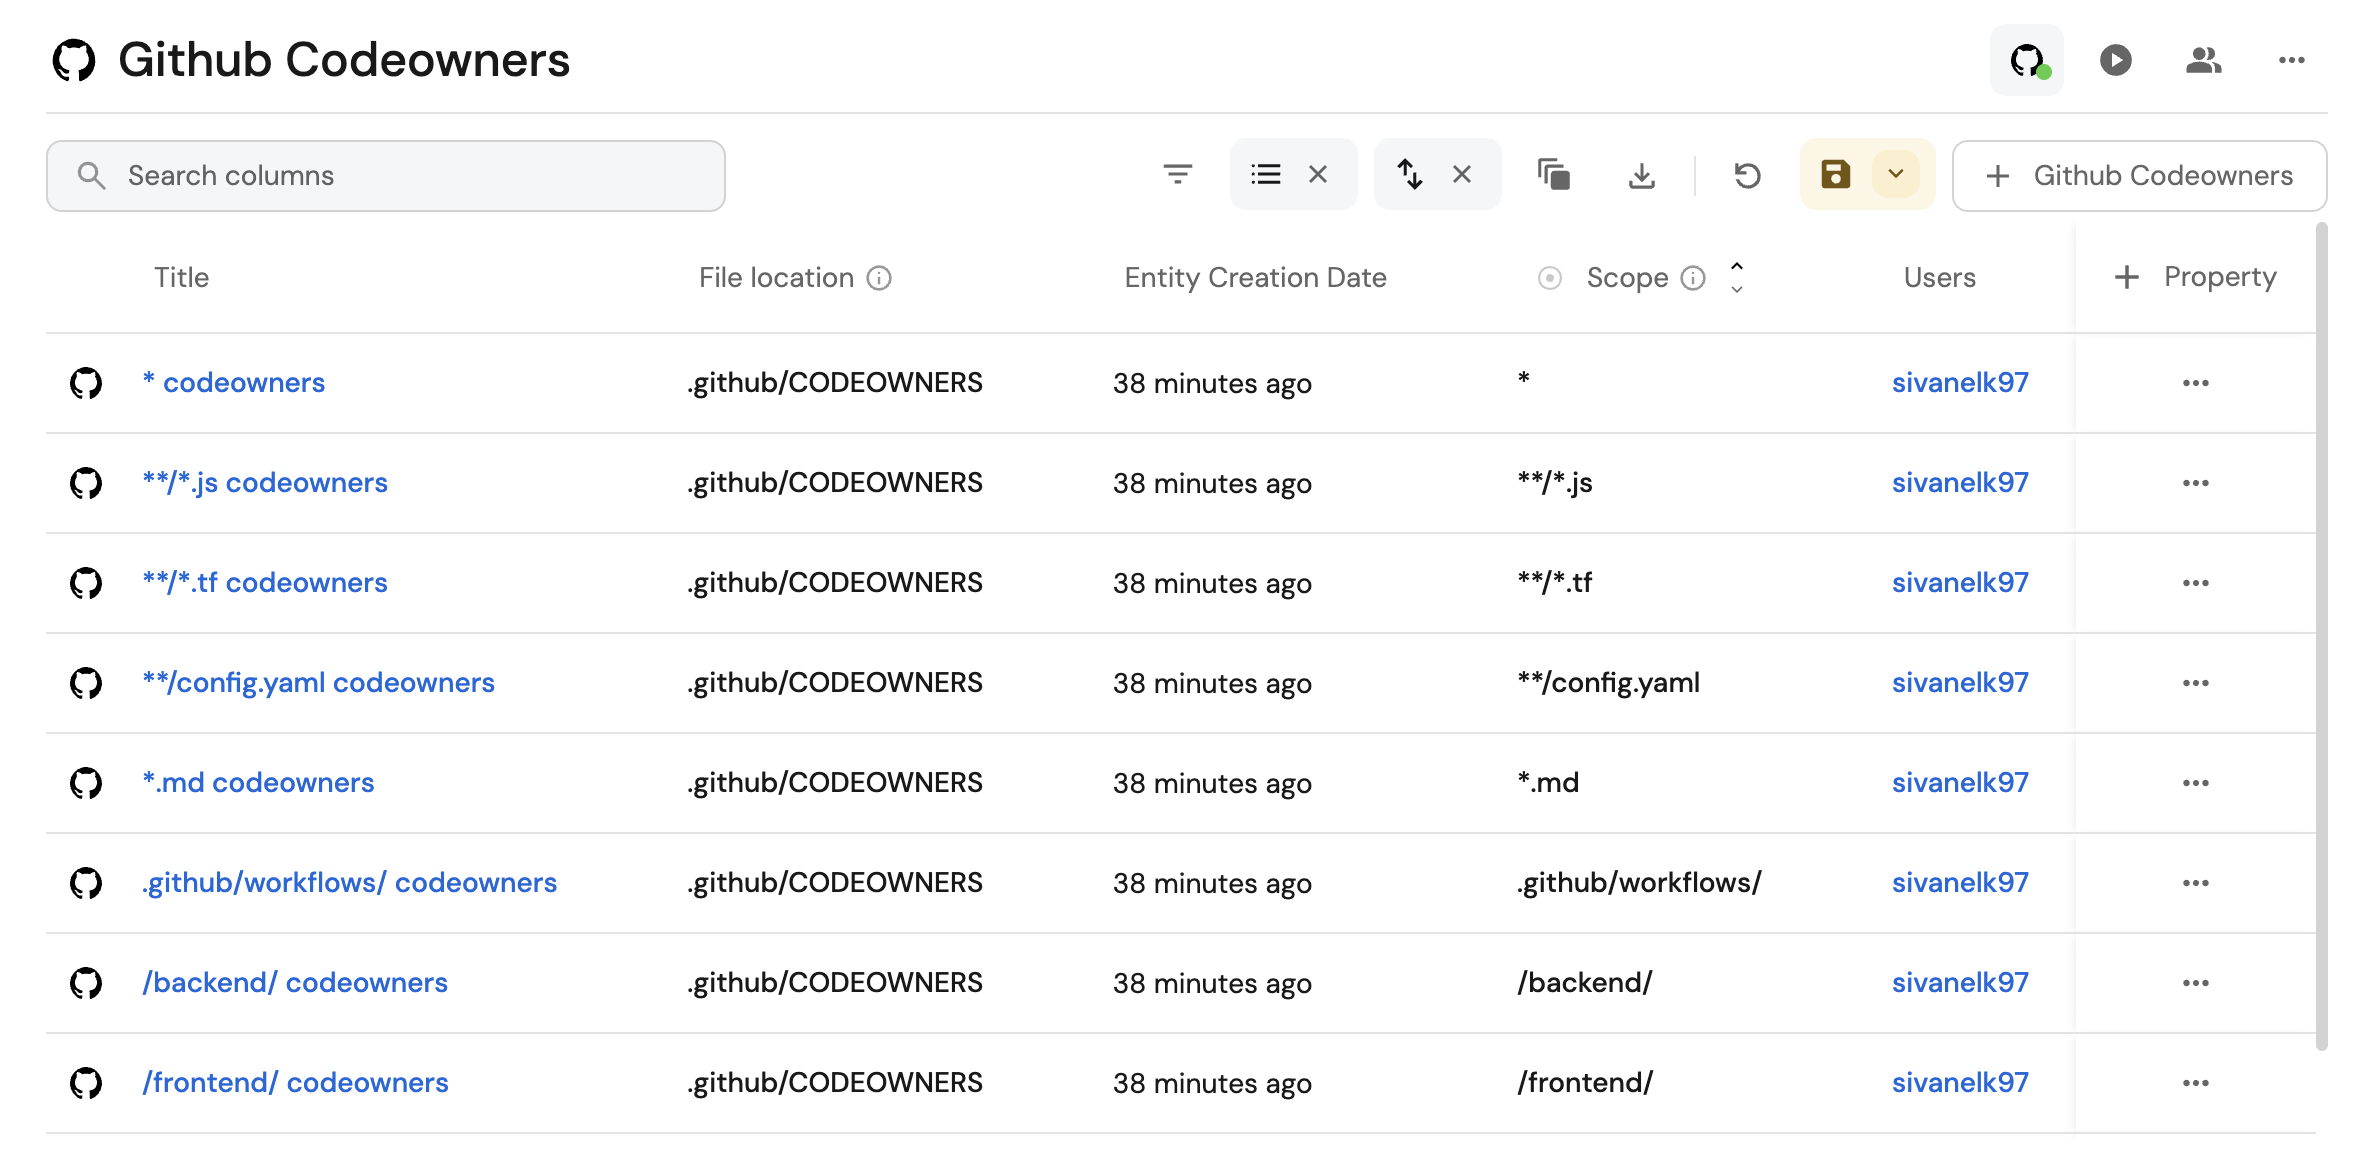
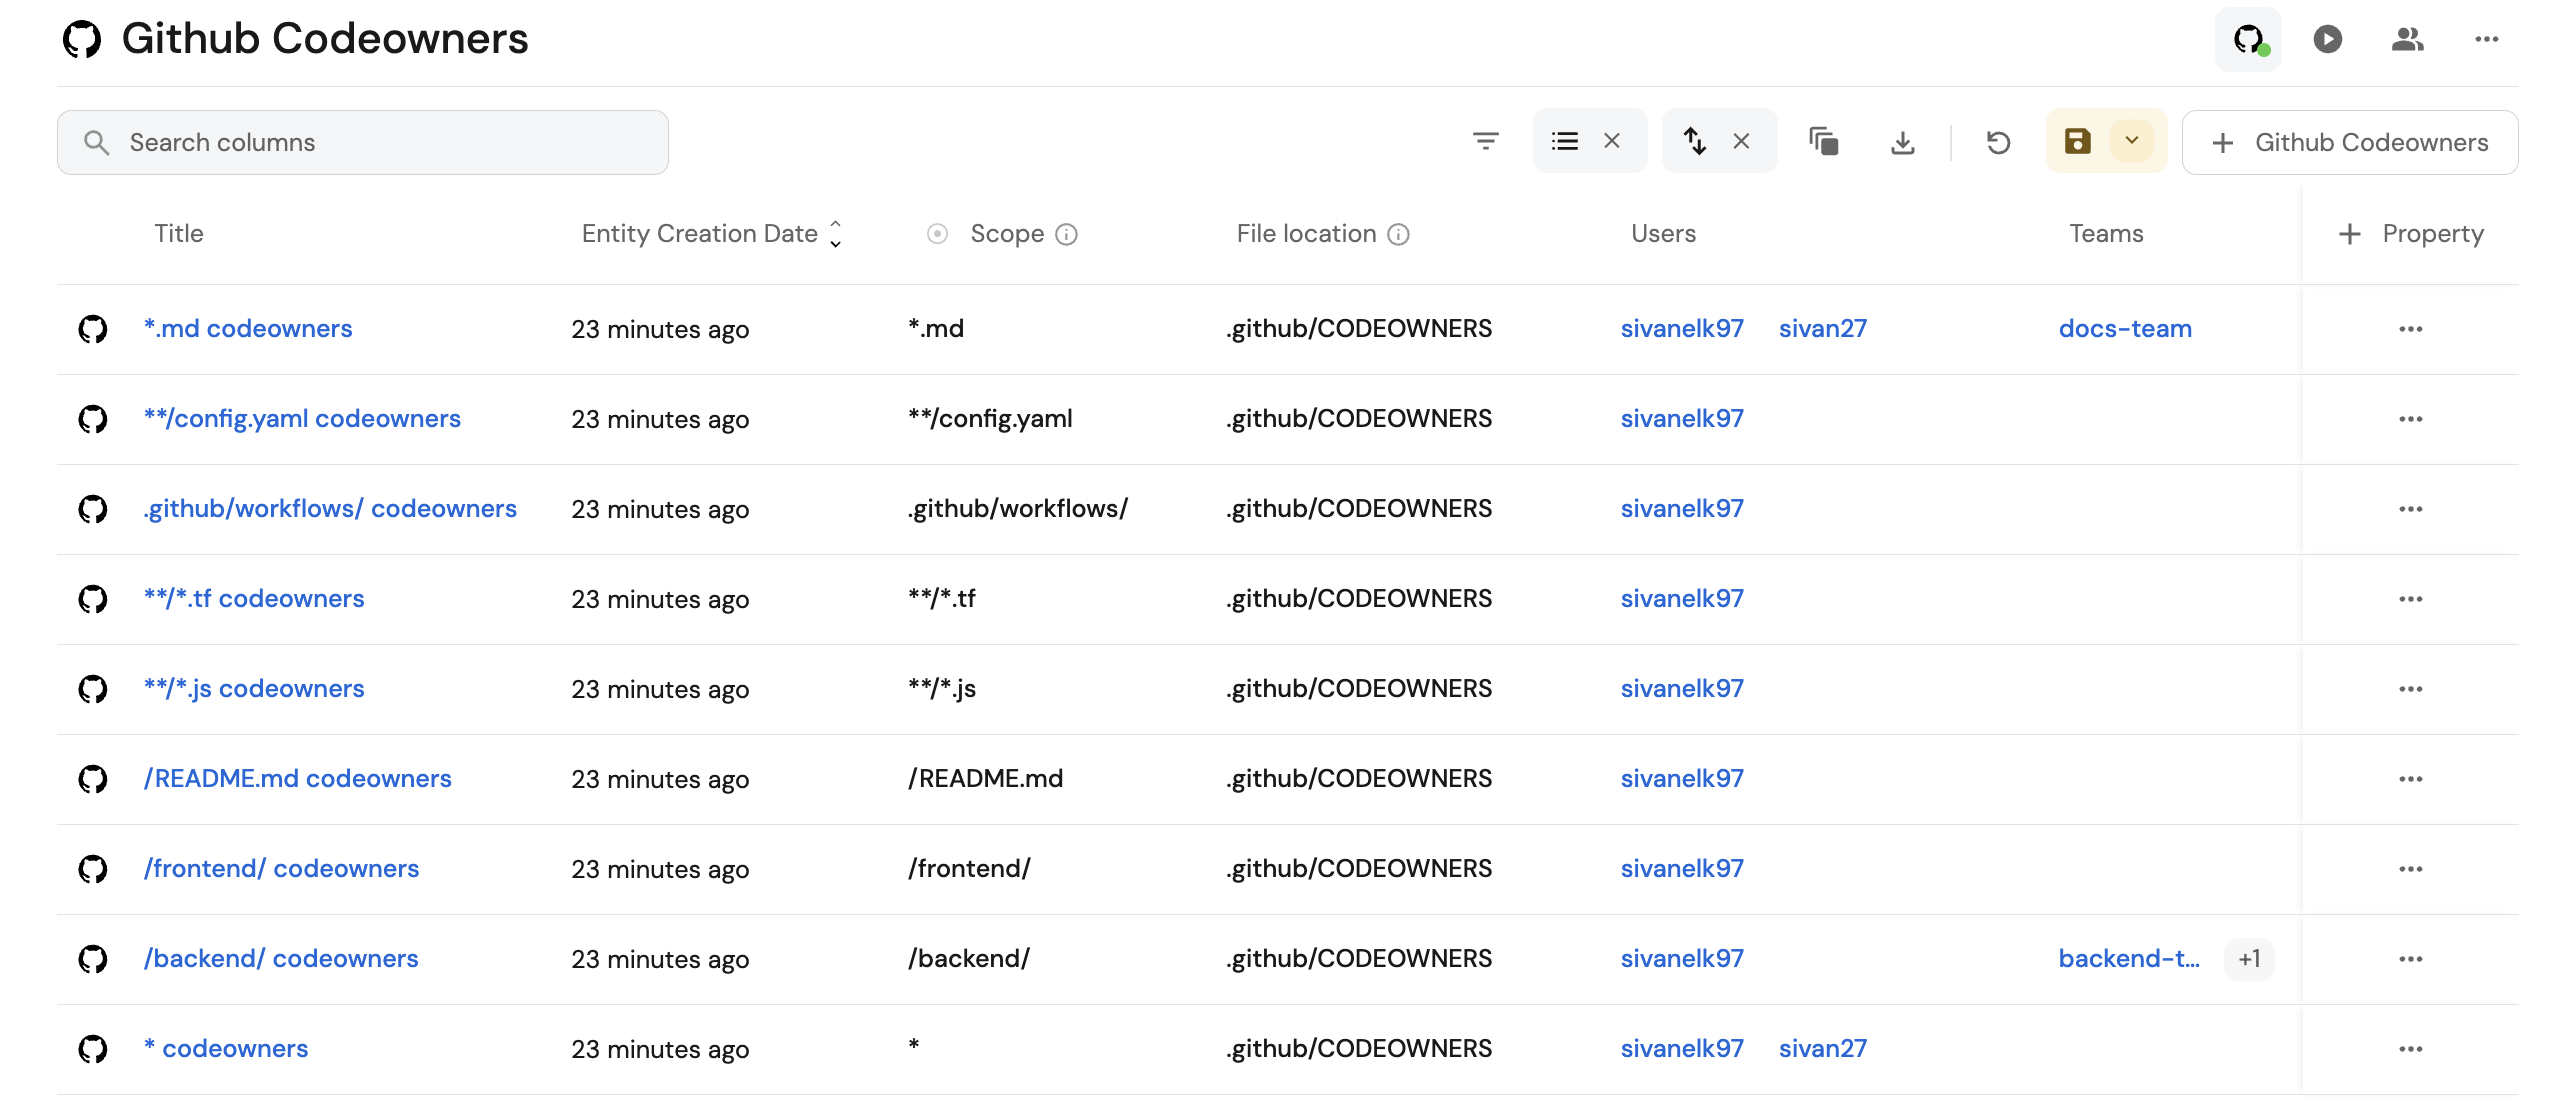
Fix teams mapping and codeowners blueprint

diff --git a/docs/guides/all/connect-github-codeowners-with-service-team-and-user.md b/docs/guides/all/connect-github-codeowners-with-service-team-and-user.md
@@ -22,9 +22,13 @@ Once you install Port's GitHub app, the following blueprints will be created in 
 To add the CODEOWNERS blueprint:
 
 1.  Navigate to your [Port Builder](https://app.getport.io/settings/data-model) page.
+
 2. Click on the `+ Blueprint` button to create a new blueprint.
+
 3. Click on the `Edit JSON` button.
+
 4. Copy the definition below and paste it in the editor.
+
 5. Click `Save` to create the blueprint.
 
 <details>
@@ -62,17 +66,18 @@ To add the CODEOWNERS blueprint:
       "required": false,
       "many": true
     },
-    "service": {
-      "title": "Service",
-      "target": "service",
-      "required": false,
-      "many": false
-    },
     "teams": {
       "title": "Teams",
       "target": "githubTeam",
       "required": false,
       "many": true
+    },
+    "repository": {
+      "title": "Repository",
+      "description": "The repository which the CODEOWNERS file resides in",
+      "target": "githubRepository",
+      "required": true,
+      "many": false
     }
   }
 }
@@ -84,10 +89,15 @@ To add the CODEOWNERS blueprint:
 ## Set up mapping configuration
 
 1. Go to the [data sources](https://app.getport.io/settings/data-sources) page of your portal.
+
 2. Under `Exporters`, click on your desired GitHub organization.
+
 3. A window will open containing the default YAML configuration of your GitHub integration.
+
 4. Here you can modify the configuration to suit your needs, by adding/removing entries.
+
 5. Add the configuration below.
+
 6. When finished, click `Save & Resync` to apply any changes.
 
 <details>
@@ -102,12 +112,8 @@ resources:
         - path: '**/.github/CODEOWNERS'
     port:
       itemsToParse: >-
-        (. as $root
-        | .file.content
-        | split("\n")
-        | map(trim)
-        | map(select((test("^[[:space:]]*#") | not) and (length > 0)))
-        | map(
+        (. as $root | .file.content | split("\n") | map(trim) |
+        map(select((test("^[[:space:]]*#") | not) and (length > 0))) | map(
             (split(" ") | map(select(length > 0))) as $tokens
             | {
                 scope: ($tokens[0]), 
@@ -124,26 +130,31 @@ resources:
                   ),
                 teams: (
                     $tokens[1:]
-                    | map(select(contains("/"))
-                            | split("/")
-                            | .[-1]
-                          )
-                  )
-              }
+                    | map(select(test("^@[^ ]+/[^ ]+$"))
+                          | split("/")
+                          | .[-1]
+              ))
+            }
+            )
           )
-        )
       entity:
         mappings:
-          identifier: .item.identifier + "_codeowners"
+          identifier: .repo.full_name + "_" +.item.identifier + "_codeowners"
           title: .item.scope + " codeowners"
           blueprint: '"githubCodeowners"'
           properties:
             scope: .item.scope
             location: .file.path
           relations:
-            service: .repo.name
-            teams: .item.teams
+            repository: .repo.full_name
+            teams: 
+              combinator: '''and'''
+              rules:
+                - property: '"$title"'
+                  value: .item.teams
+                  operator: '"in"'
             users: .item.users
+
 ```
 
 </details>
